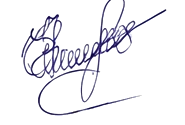
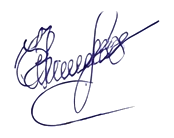
Centre the signatures, and stop the clipped flourishes reading as cuts
Both signatures are clipped at the top in the source: ink starts at row 0
in each, and the version in the earlier commit is the same, so there is
no wider scan to go back to. The strokes that leave the sheet are gone
and cannot be recovered here.

What was fixable: the margins were lopsided — 25px left, 24px right,
18px below and nothing above — so each signature floated off-centre in
its box. Cropped to the ink and given an even margin, they sit where they
should. The top rows now ramp to transparent over three pixels, so the
flourish reads as a pen lifting rather than a line sliced by a border.

Also dropped mix-blend-mode: multiply, which existed to make the scans'
white paper disappear. The files carry alpha now, and multiply only
tinted the ink against the gold sheet's cream.

The real fix is a rescan with margin above the signature; these files
would be swapped in unchanged.

Claude-Session: https://claude.ai/code/session_01AEhQKGAQJtpFHfU56SKD7R

Changed region(s): [[0.0575, 0.0, 0.9195, 0.936], [0.5747, 0.744, 0.7759, 0.84], [0.546, 0.0, 0.6034, 0.192]]

diff --git a/certificate.html b/certificate.html
@@ -5,7 +5,7 @@
 <meta name="viewport" content="width=device-width,initial-scale=1">
 <title>Сертифікат · Pole Education</title>
   <link rel="stylesheet" href="pe-fonts.css?v=20260915-fonts1">
-<link rel="stylesheet" href="certificate.css?v=20260915-cert2">
+<link rel="stylesheet" href="certificate.css?v=20260915-cert3">
 <link rel="stylesheet" href="mobile.css?v=20260830-mobile1">
   <link rel="stylesheet" href="pe-buttons.css?v=20260915-btn5">
   <link rel="stylesheet" href="pe-contrast.css?v=20260914-c9">
@@ -45,13 +45,13 @@
       <div class="author">
         <img class="author-photo" src="assets/certificate/lana-portrait.webp" alt="Svitlana Sova">
         <div class="author-name" id="authorLana">Світлана Сова</div>
-        <img class="signature-img signature-lana" src="assets/certificate/lana-signature.webp?v=20260915-sig3" alt="Підпис Svitlana Sova">
+        <img class="signature-img signature-lana" src="assets/certificate/lana-signature.webp?v=20260915-sig4" alt="Підпис Svitlana Sova">
       </div>
       <div class="authors-title" id="authorsTitle">АВТОРИ/AUTHORS</div>
       <div class="author">
         <img class="author-photo" src="assets/certificate/kateryna-portrait.webp" alt="Kateryna Kostrikova">
         <div class="author-name" id="authorKateryna">Катерина Кострікова</div>
-        <img class="signature-img signature-kateryna" src="assets/certificate/kateryna-signature.webp?v=20260915-sig3" alt="Підпис Kateryna Kostrikova">
+        <img class="signature-img signature-kateryna" src="assets/certificate/kateryna-signature.webp?v=20260915-sig4" alt="Підпис Kateryna Kostrikova">
       </div>
     </section>
 

diff --git a/certificate.css b/certificate.css
@@ -38,7 +38,10 @@ body.gold{--accent:#b77a08;--accent-soft:#fff6df}
 .author{text-align:center;display:flex;flex-direction:column;align-items:center}
 .author-photo{width:118px;height:118px;border-radius:50%;object-fit:cover;display:block;background:#f0f0f0}
 .author-name{font-size:14px;line-height:1.35;color:#2c2c2c;margin-top:8px;min-height:38px;font-weight:300}.author-name span{font-size:13px}
-.signature-img{display:block;width:120px;height:76px;object-fit:contain;margin-top:0;mix-blend-mode:multiply}
+/* multiply was how the scans' white paper was made to disappear. The
+   files carry their own alpha now, so it only tints the ink against
+   the gold sheet's cream. */
+.signature-img{display:block;width:120px;height:76px;object-fit:contain;margin-top:0}
 .signature-kateryna{width:128px}.signature-lana{width:112px}
 .authors-title{text-align:center;color:var(--accent);font-size:15px;padding-top:148px;font-weight:300}
 .certificate-footer{position:relative;z-index:3;width:100%;display:grid;grid-template-columns:1fr auto 1fr;align-items:end;margin-top:10px;padding-top:2px;min-height:52px}
